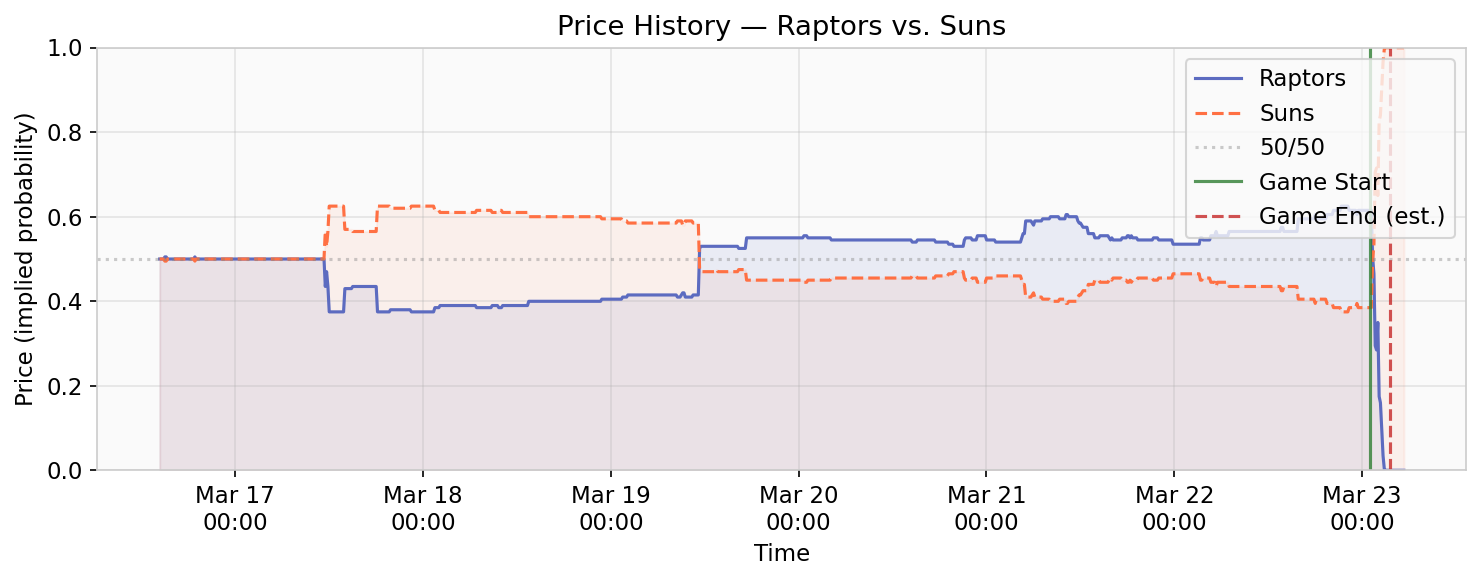
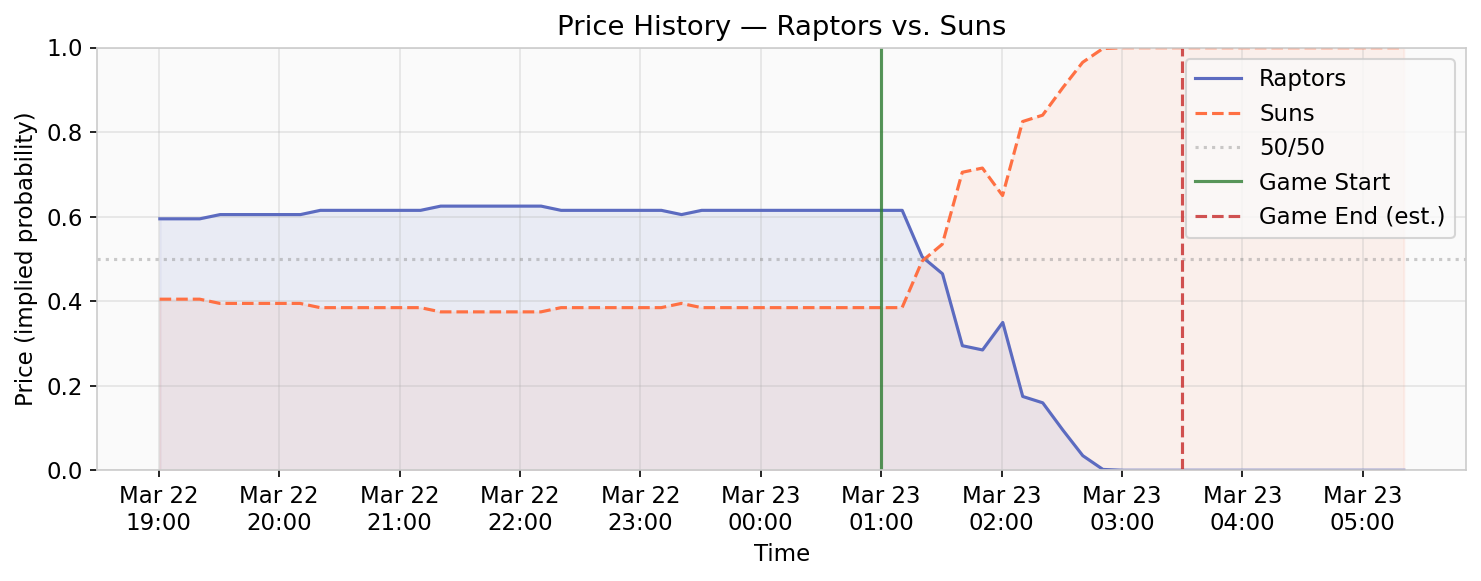
fix: trim pregame pricing to ~6h before game start on price plots

diff --git a/docs/generate_plots.py b/docs/generate_plots.py
@@ -278,6 +278,17 @@ def _add_game_time_lines(ax, game_start: str | None, game_end: str | None):
             pass
 
 
+def _trim_pregame(df: pd.DataFrame, game_start: str | None, hours_before: float = 6) -> pd.DataFrame:
+    """Trim price history to start *hours_before* before game_start."""
+    if df.empty or not game_start:
+        return df
+    try:
+        cutoff = pd.to_datetime(game_start, utc=True) - pd.Timedelta(hours=hours_before)
+        return df[df["timestamp"] >= cutoff].reset_index(drop=True)
+    except Exception:
+        return df
+
+
 def plot_price_history(data: dict):
     """Price line chart with BOTH outcomes labeled (price-data.md)."""
     df_a = _price_df(data["price_history_a"])
@@ -285,6 +296,10 @@ def plot_price_history(data: dict):
     if df_a.empty and df_b.empty:
         print("  ⚠ No price history data")
         return
+
+    # Trim to ~6 h before game start so the game window dominates
+    df_a = _trim_pregame(df_a, data.get("game_start"))
+    df_b = _trim_pregame(df_b, data.get("game_start"))
 
     title = data["h2h_market"]["question"] if data["h2h_market"] else "Market"
     label_a, label_b = data["label_a"], data["label_b"]
@@ -378,6 +393,10 @@ def plot_price_line(data: dict):
     if df_a.empty and df_b.empty:
         print("  ⚠ No price history for price_line")
         return
+
+    # Trim to ~6 h before game start so the game window dominates
+    df_a = _trim_pregame(df_a, data.get("game_start"))
+    df_b = _trim_pregame(df_b, data.get("game_start"))
 
     title = data["h2h_market"]["question"] if data["h2h_market"] else "Market"
     label_a, label_b = data["label_a"], data["label_b"]
